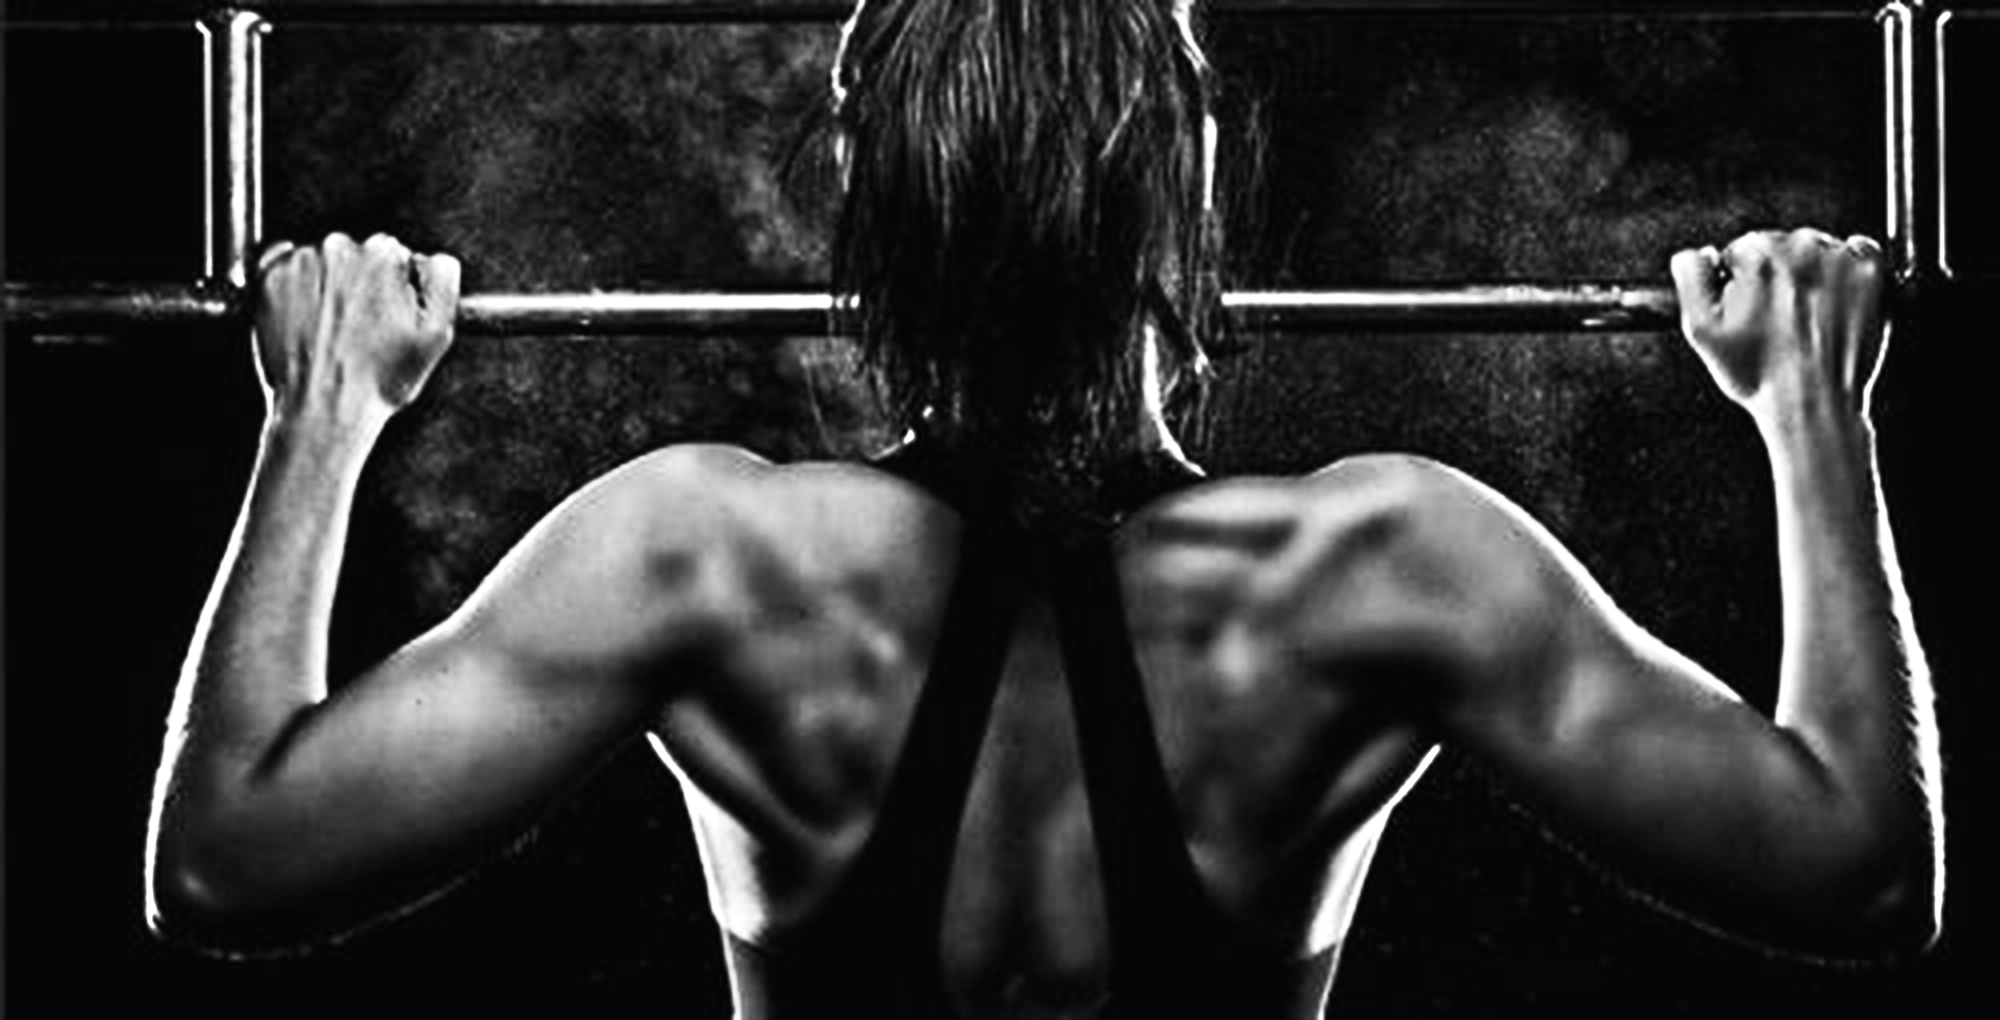
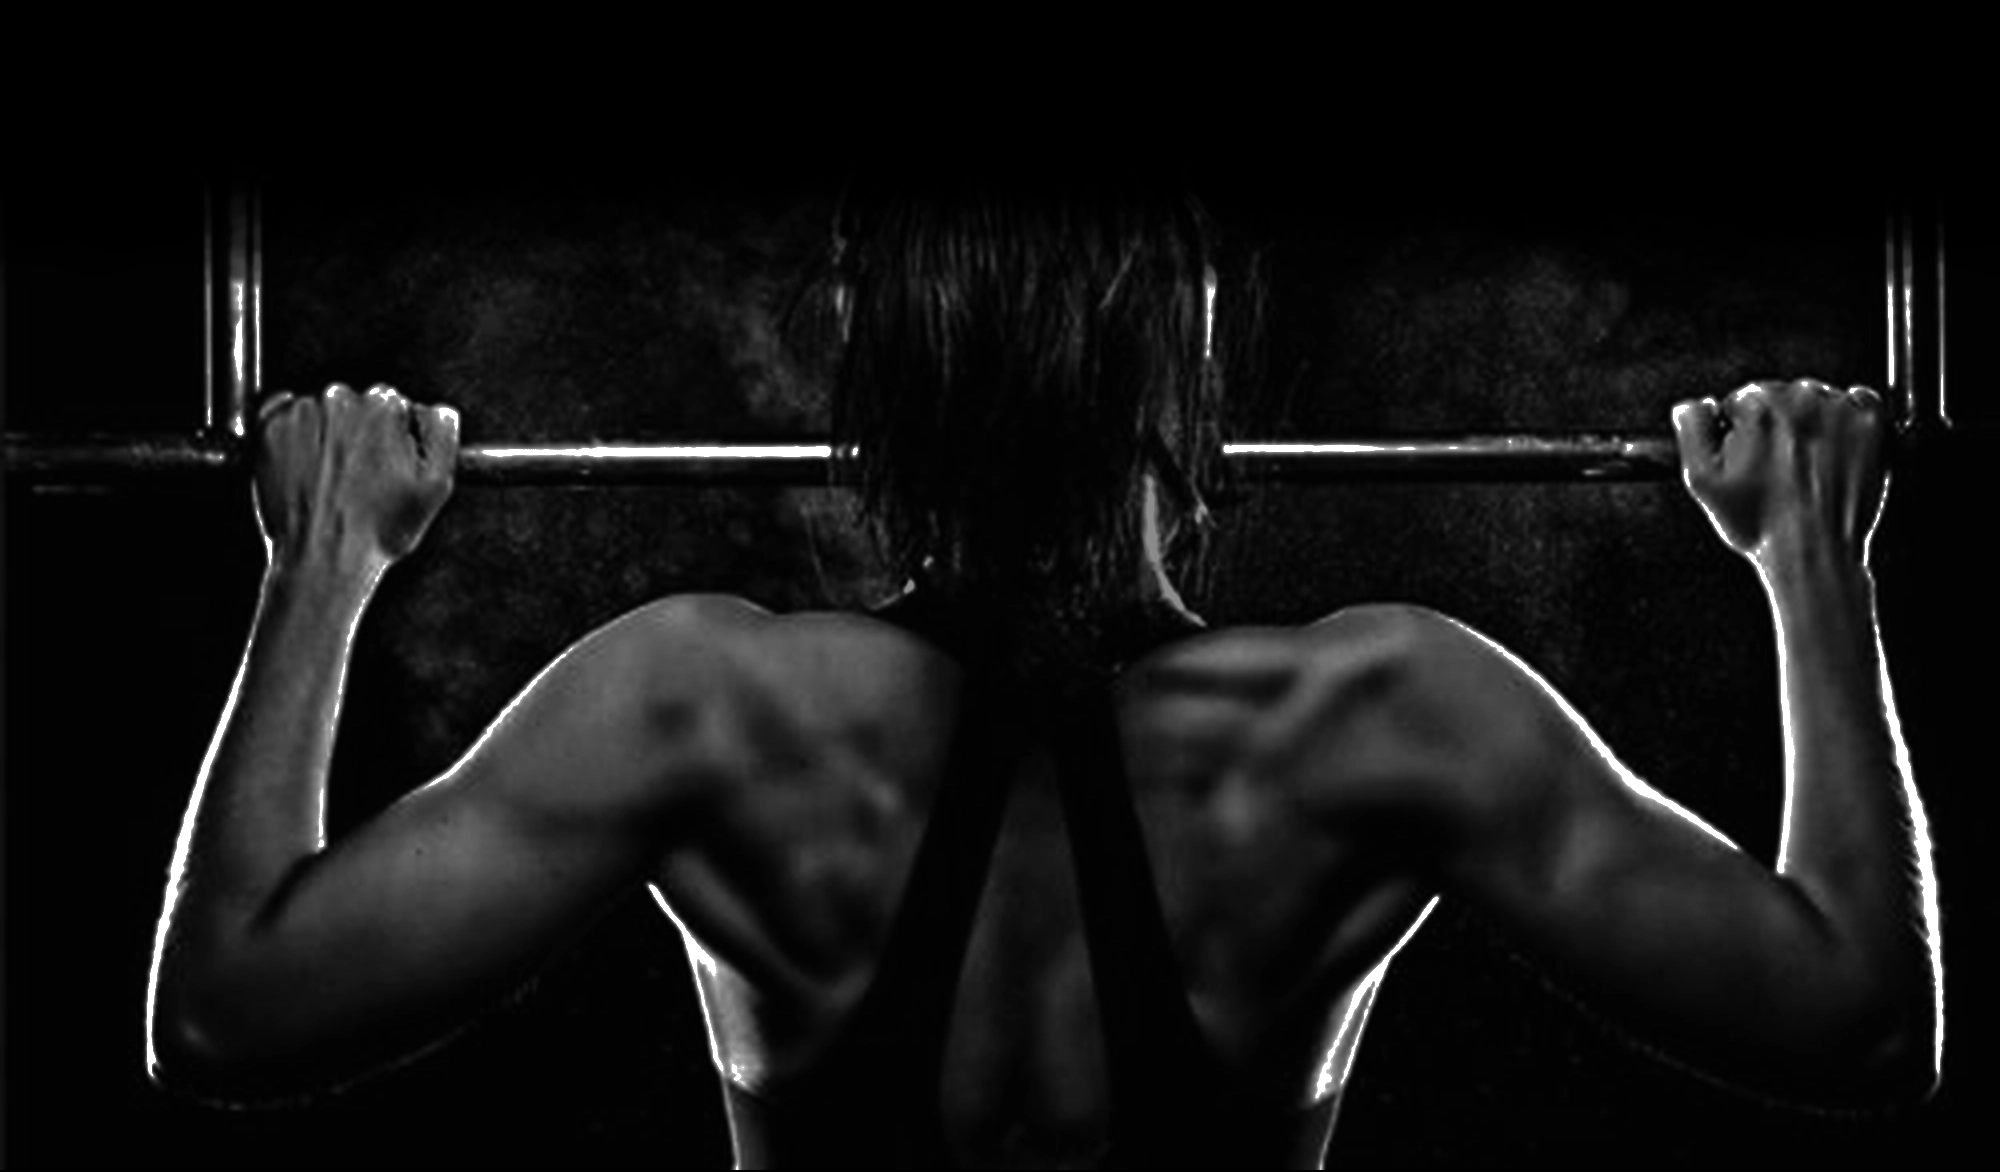
update the hate machine

diff --git a/components/Intro.tsx b/components/Intro.tsx
@@ -4,8 +4,9 @@ import { ConnectButton, connectorsForWallets } from "@rainbow-me/rainbowkit";
 import heroImage from "../images/push-up.webp";
 import { ChooseSideButton } from "./Buttons/ChooseSideButton";
 import { ClaimPrizeButton } from "./Buttons/ClaimPrizeButton";
-import backDropImage from "../images/pull2.webp";
-import testImg from "../images/pulld.jpg";
+import backDropImage from "../images/pull.webp";
+import hater from "../images/Hater.jpg";
+import believer from "../images/Believer.jpg";
 import {
   useAccount,
   useProvider,
@@ -30,6 +31,8 @@ const Intro = () => {
   const { address, isConnected } = useAccount();
   const [loading, setLoading] = useState<boolean>(false);
   const [eventHappened, setEventHappened] = useState<boolean>(false);
+  const [minted, setMinted] = useState<boolean>(false);
+  const [fullHater, setHater] = useState<boolean>(false);
   const provider = useProvider();
 
   const ESCROWCONTRACT = process.env.NEXT_PUBLIC_CONTRACT_ADDRESS;
@@ -98,7 +101,7 @@ const Intro = () => {
               <div>
                 {
                   <Image
-                    src={testImg}
+                    src={backDropImage}
                     alt="heroBanner"
                     layout="fill"
                     objectFit="cover"
@@ -116,7 +119,7 @@ const Intro = () => {
               <div className="container relative mx-auto p-16 md:p-0">
                 <div className="flex flex-col  items-center justify-center -mt-6 md:mt-0 sm:-ml-0 md:-ml-12">
                   <div className="text-center md:text-left md:ml-16 space-x-2 space-y-5">
-                    {!loading && (
+                    {!loading && !minted && (
                       <>
                         <h1 className="text-3xl md:text-5xl font-bold text-center text-white ">
                           The Krinza{" "}
@@ -137,13 +140,15 @@ const Intro = () => {
                     )}
 
                     <div className="flex flex-col max-w-s items-center text-center">
-                      {!loading && isConnected && !eventHappened && (
+                      {!loading && isConnected && !eventHappened && !minted && (
                         <ChooseSideButton
                           contractConfig={contractConfig}
                           setLoading={setLoading}
+                          setMinted={setMinted}
+                          setHater={setHater}
                         />
                       )}
-                      {isConnected && eventHappened && (
+                      {isConnected && eventHappened && !minted && (
                         <ClaimPrizeButton
                           contractConfig={contractConfig}
                           setLoading={setLoading}
@@ -155,6 +160,44 @@ const Intro = () => {
                         </>
                       )}
                     </div>
+                    {minted && (
+                      <div className="flex flex-col items-center text-center">
+                        {fullHater ? (
+                          <>
+                            <p className="text-white text-center">
+                              What a Hater!!!
+                            </p>
+                            <Image
+                              src={hater}
+                              alt="nft"
+                              width={300}
+                              priority
+                              className="mb-5"
+                            />
+                          </>
+                        ) : (
+                          <>
+                            <p className="text-white text-center">
+                              A true believer, a friend of the people
+                            </p>
+                            <Image
+                              src={believer}
+                              alt="nft"
+                              width={300}
+                              priority
+                              className="mb-5"
+                            />
+                          </>
+                        )}
+
+                        <button
+                          className=" bg-red-700 hover:bg-red-600 rounded-full px-12 py-2  text-white font-bold"
+                          onClick={() => setMinted(false)}
+                        >
+                          Close
+                        </button>
+                      </div>
+                    )}
                   </div>
                 </div>
               </div>

diff --git a/components/Buttons/ChooseSideButton.tsx b/components/Buttons/ChooseSideButton.tsx
@@ -9,11 +9,15 @@ import type {
 interface ChooseSideButtonProps {
   contractConfig: any; // TODO: make this properly typed to an address + ABI
   setLoading: (value: React.SetStateAction<boolean>) => void;
+  setMinted: (value: React.SetStateAction<boolean>) => void;
+  setHater: (value: React.SetStateAction<boolean>) => void;
 }
 
 const ChooseSideButton = ({
   contractConfig,
   setLoading,
+  setMinted,
+  setHater,
 }: ChooseSideButtonProps) => {
 
   // Hater or Believer ///////////////////
@@ -46,6 +50,8 @@ const ChooseSideButton = ({
         setLoading(true);
         await nftTxn.wait();
         setLoading(false);
+        setMinted(true);
+        setHater(true);
       }
     } catch (error) {
       console.log(error);
@@ -82,6 +88,8 @@ const ChooseSideButton = ({
         setLoading(true);
         await nftTxn.wait();
         setLoading(false);
+        setMinted(true);
+        setHater(false);
       }
     } catch (error) {
       console.log(error);
